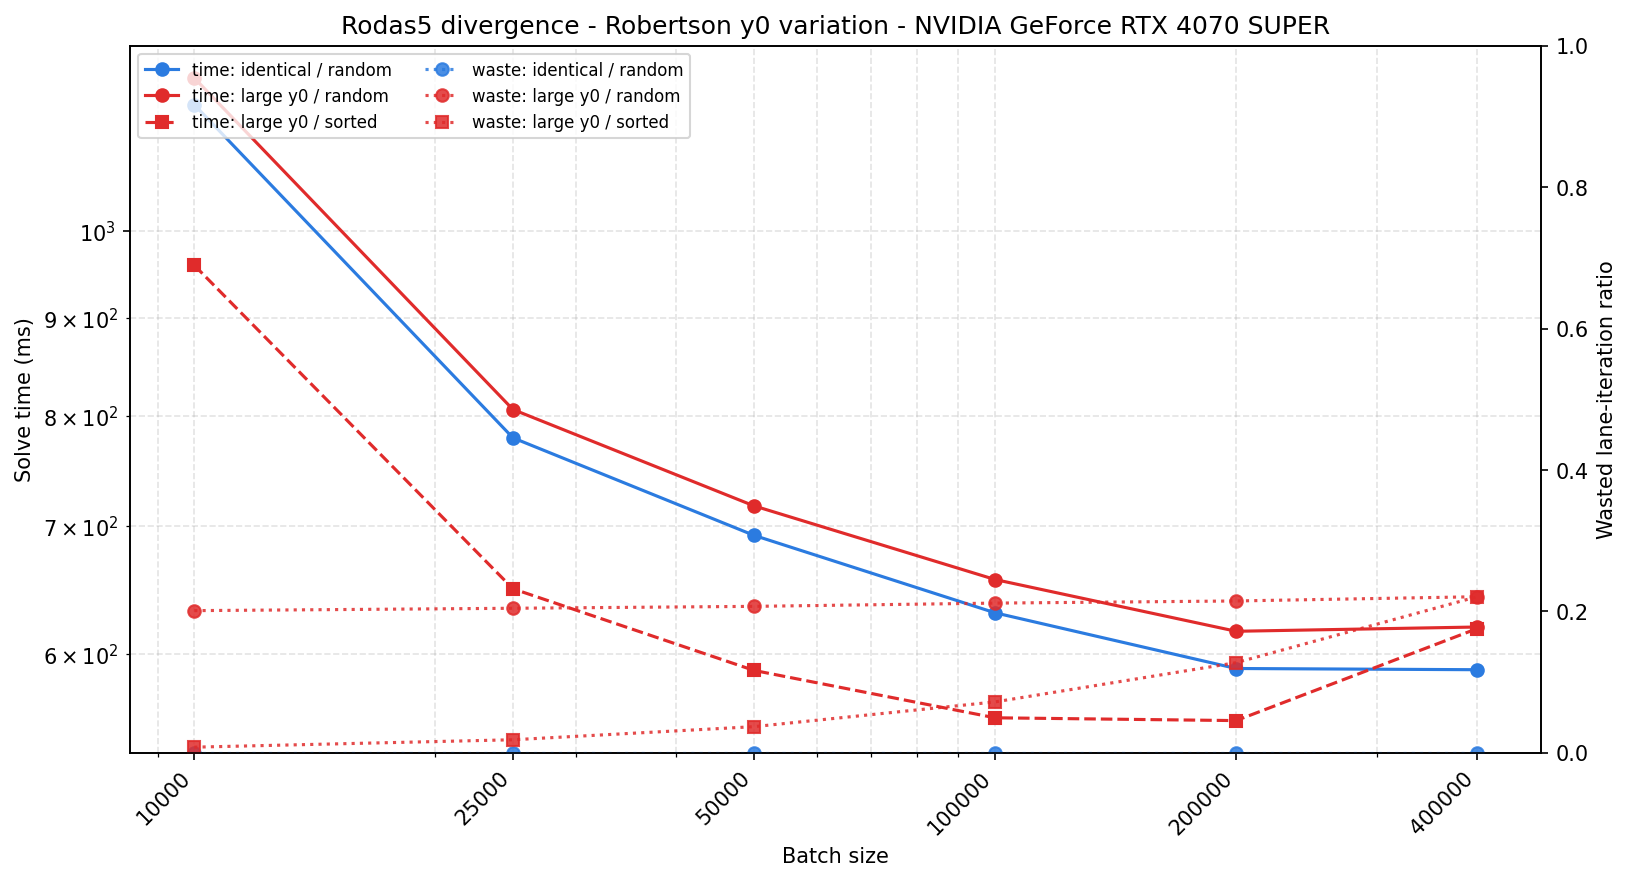
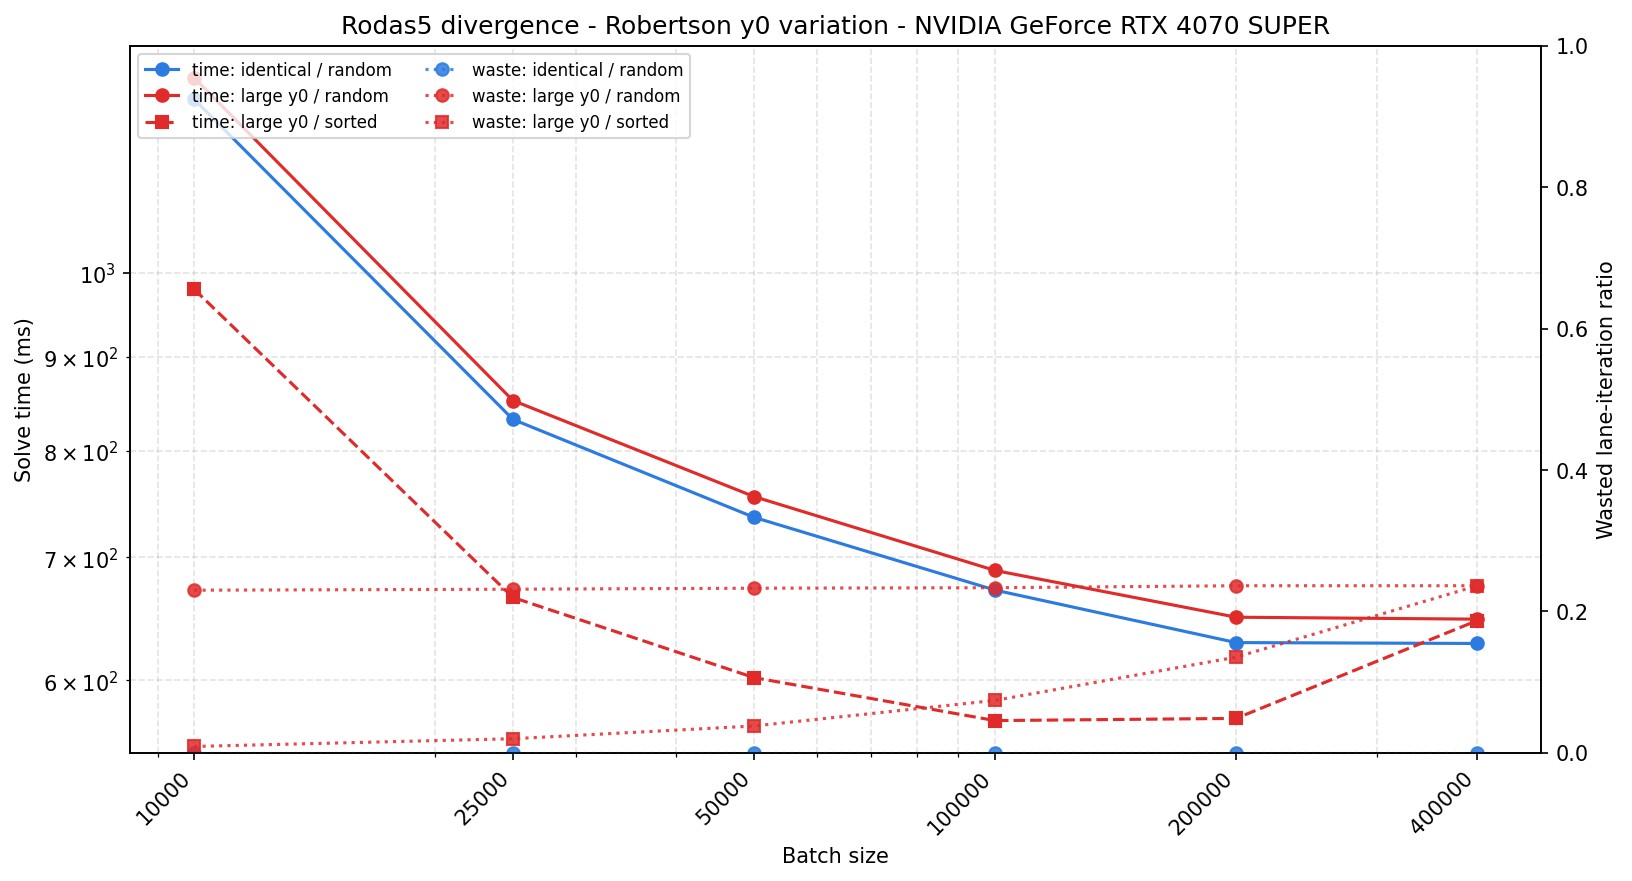
Make the rodas5 divergence test harder

diff --git a/scripts/4_rodas5_divergence/main.py b/scripts/4_rodas5_divergence/main.py
@@ -63,7 +63,7 @@ jax.config.update("jax_enable_x64", True)
 
 _N_TRAJ = 400_000
 _T_SPAN = robertson.TIMES
-_N_RUNS = 5
+_N_RUNS = 1
 _BATCH_SIZES = (10_000, 25_000, 50_000, 100_000, 200_000, 400_000)
 _SOLVER_KWARGS = {
     "first_step": 1e-4,
@@ -94,7 +94,7 @@ class Grouping:
     marker: str
 
 
-_IC_ALPHA_HARD = 0.9
+_IC_ALPHA_HARD = 0.99
 _IC_EPS = 0.1
 _HARD_Y0 = np.array(
     [(1 - _IC_EPS) * _IC_ALPHA_HARD, _IC_EPS, (1 - _IC_EPS) * (1 - _IC_ALPHA_HARD)],
